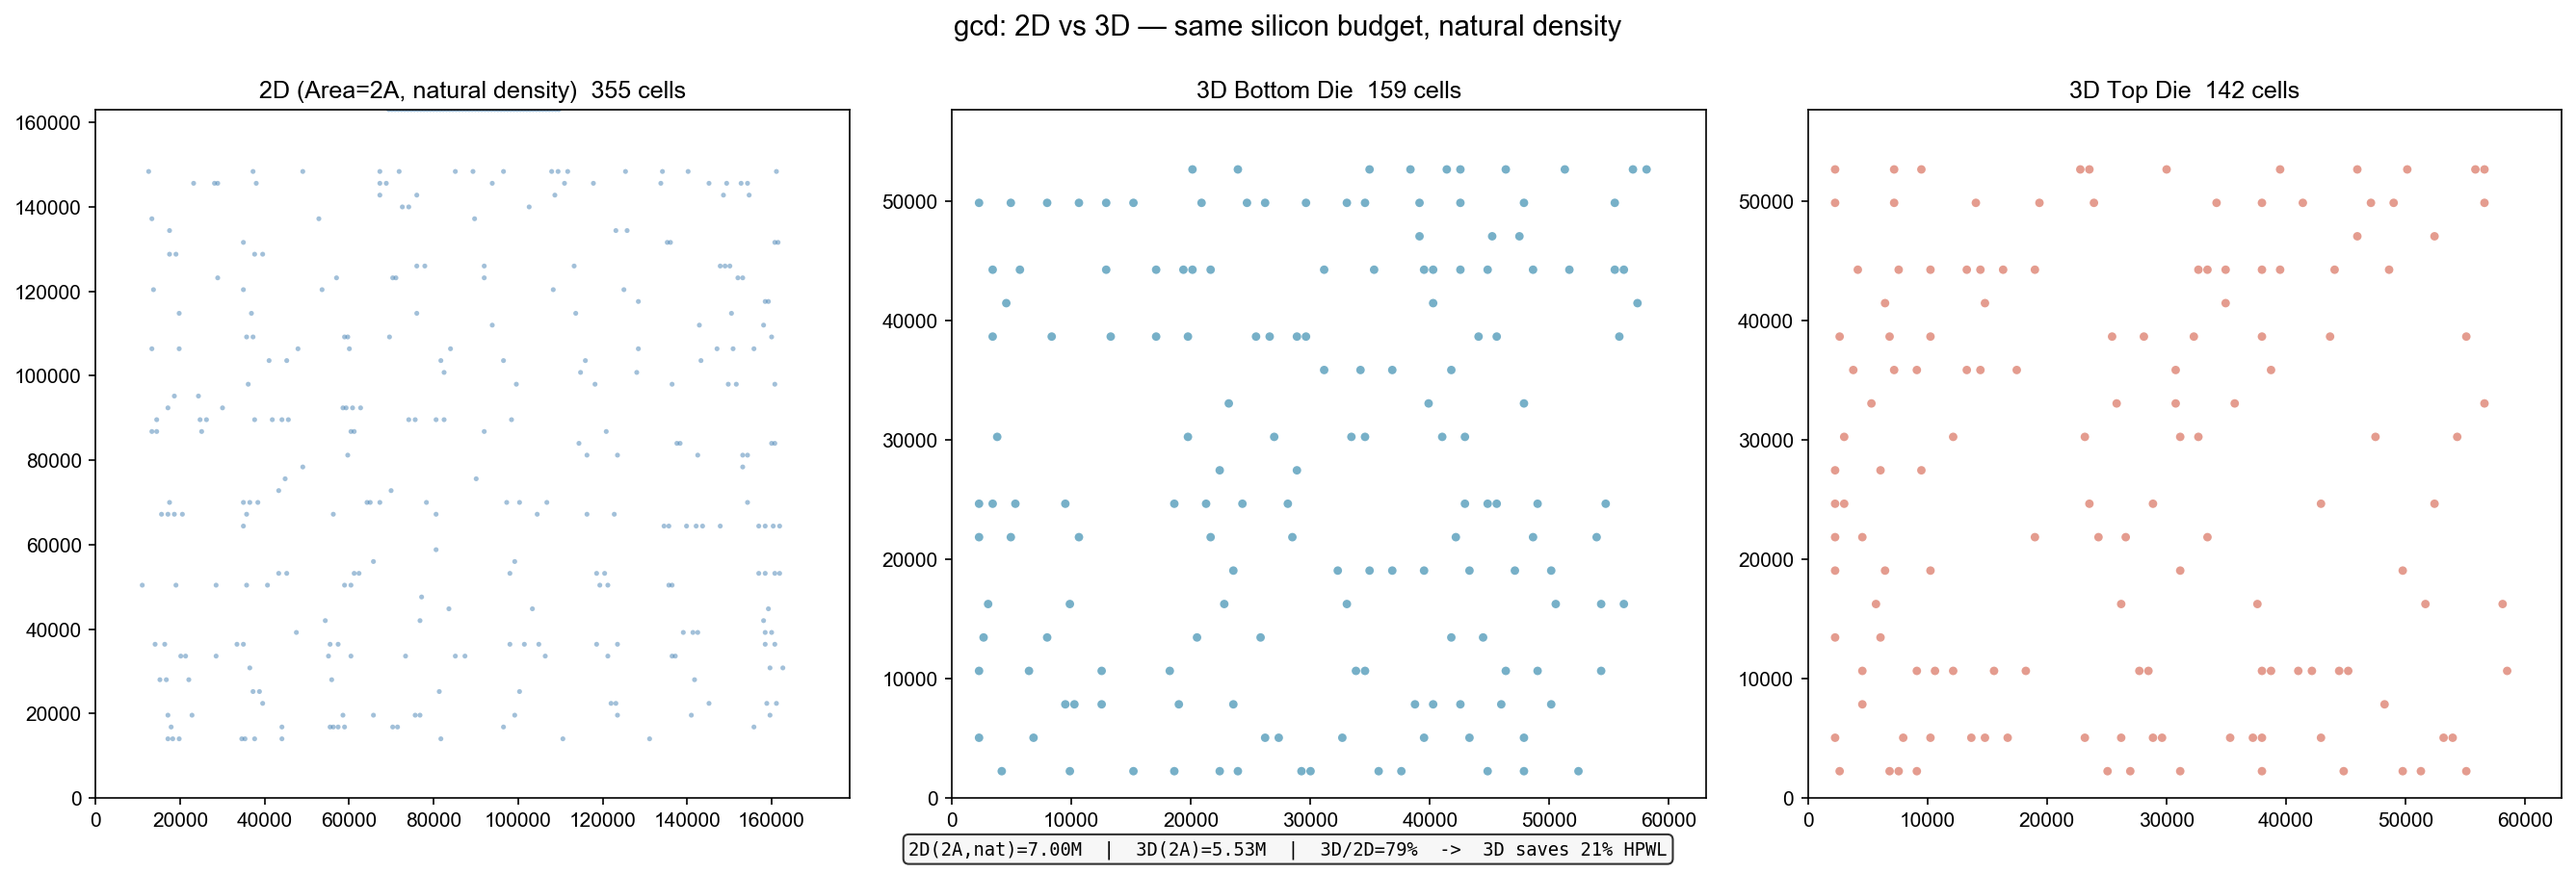
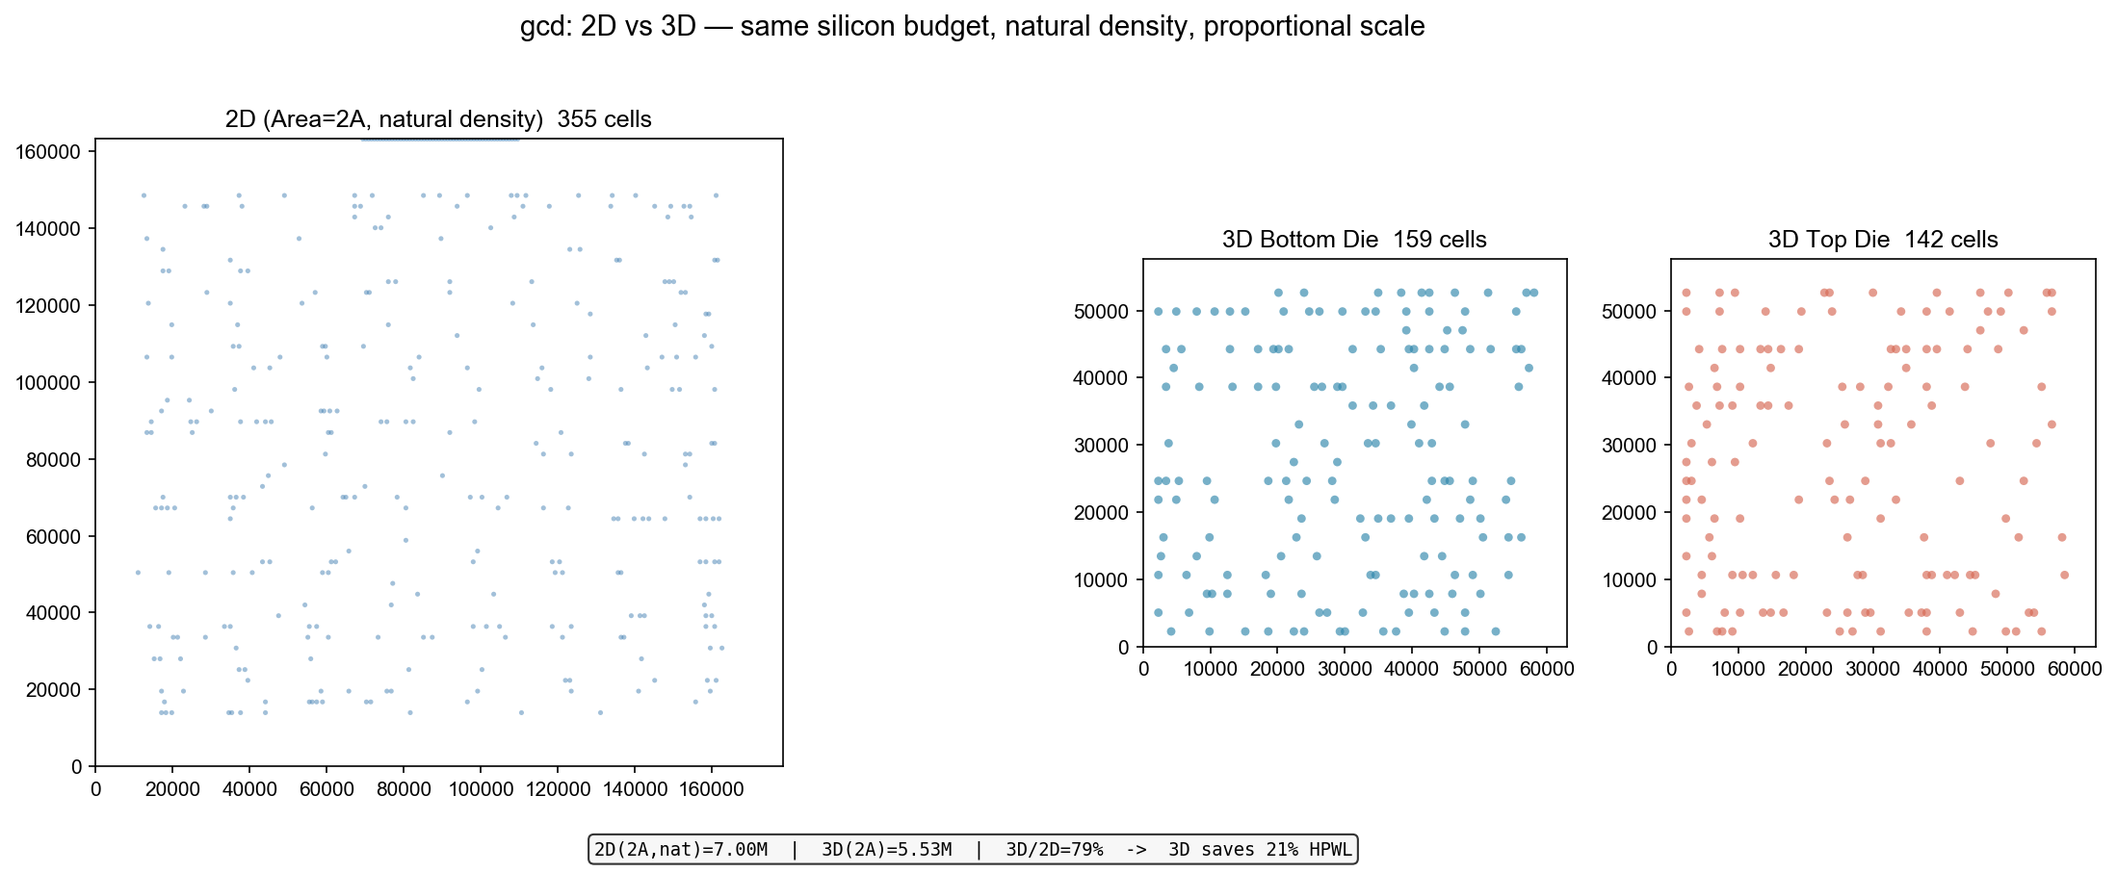
图按实际比例缩放 2D(√2x) vs 3D(1x)

diff --git a/scripts/plot_placement.py b/scripts/plot_placement.py
@@ -1,9 +1,10 @@
 #!/usr/bin/env python3
 """Plot 2D(2A, natural) vs 3D (Bottom + Top)."""
 
-import re
+import re, math
 import matplotlib.pyplot as plt
 import matplotlib
+import matplotlib.gridspec as gridspec
 matplotlib.rcParams['font.sans-serif'] = ['Arial Unicode MS', 'DejaVu Sans']
 matplotlib.rcParams['axes.unicode_minus'] = False
 
@@ -21,22 +22,28 @@ d3d, da3d = parse('results/gcd/gcd_3d.def')
 bot = [(x,y) for _,x,y,t in d3d if t.endswith('_b')]
 top = [(x,y) for _,x,y,t in d3d if t.endswith('_t')]
 
-fig, axes = plt.subplots(1, 3, figsize=(18, 6))
+# Proportional widths: 2D die is sqrt(2) wider than each 3D die
+ratio_2d = da2d[2] / da3d[2]  # ~1.414
+fig = plt.figure(figsize=(16, 6))
+gs = gridspec.GridSpec(1, 3, width_ratios=[ratio_2d, 1, 1])
 
-ax = axes[0]
+# 2D
+ax = fig.add_subplot(gs[0])
 xs = [x for _,x,y,_ in d2d]; ys = [y for _,x,y,_ in d2d]
 ax.scatter(xs, ys, c='steelblue', s=6, alpha=0.5, edgecolors='none')
 ax.set_title(f'2D (Area=2A, natural density)  {len(d2d)} cells', fontsize=12, fontweight='bold')
 ax.set_xlim(0, da2d[2]); ax.set_ylim(0, da2d[3]); ax.set_aspect('equal')
 
-ax = axes[1]
+# 3D Bottom
+ax = fig.add_subplot(gs[1])
 if bot:
     xs, ys = zip(*bot)
     ax.scatter(xs, ys, c='#2E86AB', s=18, alpha=0.65, edgecolors='none')
 ax.set_title(f'3D Bottom Die  {len(bot)} cells', fontsize=12, fontweight='bold')
 ax.set_xlim(0, da3d[2]); ax.set_ylim(0, da3d[3]); ax.set_aspect('equal')
 
-ax = axes[2]
+# 3D Top
+ax = fig.add_subplot(gs[2])
 if top:
     xs, ys = zip(*top)
     ax.scatter(xs, ys, c='#D66853', s=18, alpha=0.65, edgecolors='none')
@@ -48,7 +55,7 @@ fig.text(0.5, 0.01,
     ha='center', fontsize=9, family='monospace',
     bbox=dict(boxstyle='round', facecolor='#F5F5F5', alpha=0.8))
 
-fig.suptitle('gcd: 2D vs 3D — same silicon budget, natural density', fontsize=14, fontweight='bold')
+fig.suptitle('gcd: 2D vs 3D — same silicon budget, natural density, proportional scale', fontsize=14, fontweight='bold')
 plt.tight_layout(rect=[0, 0.05, 1, 0.95])
 plt.savefig('docs/gcd_2d_vs_3d.png', dpi=150, bbox_inches='tight')
 plt.close()
